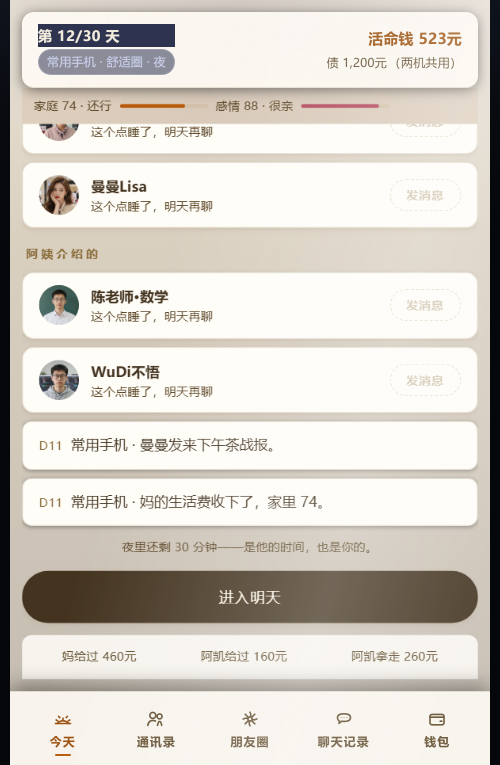
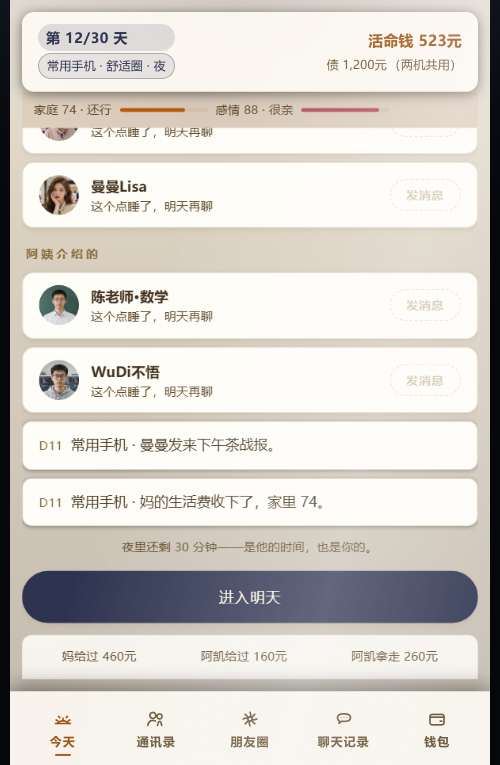
style(comfort): 夜态头部胶囊与「进入明天」入暮靛一族——夜间语言统一
- 夜 chip 从实底深靛反白改为「暮靛浅底+深靛字」——与白天 chip 同解剖
  （浅底深字）只换色相，不再像暖纸上的选中高亮；对比 ≈9:1
- 舒适圈日期 chip 补胶囊形状（与旁边 phone-tag 同构）
- 「进入明天」夜 CTA 底色暖黑棕 → 深靛 --c-night-ink（奶油字 10.4:1），
  与头部暮靛族同语言；白天「天黑了」暖橙主 CTA 不变
- 清理死令牌 --c-night-text/--c-night-tag/--c-night-bg，新增 --c-night-ink
- 回归：tsc / vitest 299 全绿；日夜两态截图验收

Changed region(s): [[0.03, 0.0301, 0.96, 0.1804], [0.03, 0.7216, 0.96, 0.8118]]

diff --git a/src/styles.css b/src/styles.css
@@ -1938,9 +1938,7 @@ p.retire-note { color: var(--warm); opacity: 0.75; margin-top: 8px; }
 
   /* ---- 场景色（收敛自散落硬编码） ---- */
   /* 微信绿改版后：金色气泡令牌已废——她发出的气泡统一用 --bub-green */
-  --c-night-bg: #2E3350;       /* 夜间 chip 实底（#F2ECDD on 它 = 10.45:1） */
-  --c-night-text: #F2ECDD;     /* 夜间 chip 文字 */
-  --c-night-tag: #C9CFEA;      /* 夜间标签文字（on --c-night-bg = 7.97:1） */
+  --c-night-ink: #2E3350;      /* 夜间浅底（暮靛 14%/10%）上的深靛字，与描边一族 */
   --c-overlay: rgba(58, 42, 20, 0.44);  /* 弹窗遮罩 */
   --c-dawn: #FFEFD6;           /* 页顶晨光渐变第一段 */
 
@@ -2020,7 +2018,12 @@ p.retire-note { color: var(--warm); opacity: 0.75; margin-top: 8px; }
 .comfort-theme .module-nav { background: var(--panel-glass); border-top: 1px solid var(--line-soft); }
 .comfort-theme .nav-btn { color: var(--muted); }
 .comfort-theme .nav-btn.on { color: var(--accent-deep); }
-.comfort-theme .day-chip { background: var(--fill); color: var(--text); }
+.comfort-theme .day-chip {
+  background: var(--fill);
+  color: var(--text);
+  padding: 2px var(--c-s-2);
+  border-radius: var(--c-r-full);   /* 与旁边 comfort-phone-tag 同解剖：胶囊浅底+深字 */
+}
 /* HUD 两列制对齐主线口径：活命钱 --fs-6 / 债 --fs-3（同一套字阶，颜色走暖色变量） */
 .comfort-theme .money { color: var(--accent-deep); font-size: var(--fs-6); }
 .comfort-theme .goal { color: var(--muted); font-size: var(--fs-3); }
@@ -2311,7 +2314,7 @@ p.retire-note { color: var(--warm); opacity: 0.75; margin-top: 8px; }
 }
 .comfort-theme .comfort-today > .btn.wide:not(.primary) {
   min-height: var(--c-h-lg);
-  background: var(--c-n7);
+  background: var(--c-night-ink);  /* 夜 CTA 入暮靛一族：与夜间头部 chip 同语言（奶油字 10.4:1） */
   color: var(--c-n1);
   box-shadow: var(--c-shadow-1);
 }
@@ -2388,11 +2391,16 @@ p.retire-note { color: var(--warm); opacity: 0.75; margin-top: 8px; }
     radial-gradient(120% 52% at 50% -8%, rgba(99, 112, 160, 0.24), transparent 62%),
     linear-gradient(180deg, rgba(40, 44, 68, 0.08) 0%, rgba(40, 44, 68, 0.24) 100%);
 }
-.comfort-theme.comfort-night .day-chip { background: var(--c-night-bg); color: var(--c-night-text); }
+/* 夜 chip 不再实底反白（深块贴暖纸像选中高亮）：保持白天「浅底深字」的解剖，
+   只把色相从暖沙换成暮靛——文字对比 ≈9:1，与夜罩同源。 */
+.comfort-theme.comfort-night .day-chip {
+  background: rgba(46, 51, 80, 0.14);
+  color: var(--c-night-ink);
+}
 .comfort-theme.comfort-night .comfort-phone-tag {
-  color: var(--c-night-tag);
-  background: rgba(46, 51, 80, 0.55);
-  border-color: rgba(201, 207, 234, 0.30);
+  color: var(--c-night-ink);
+  background: rgba(46, 51, 80, 0.10);
+  border-color: rgba(46, 51, 80, 0.32);
 }
 .comfort-theme.comfort-night .btn:disabled { color: var(--c-n6); }
 /* 聊天是「家里的灯」：气泡在夜里保持白/暖绿不变，只有环境变夜。 */
